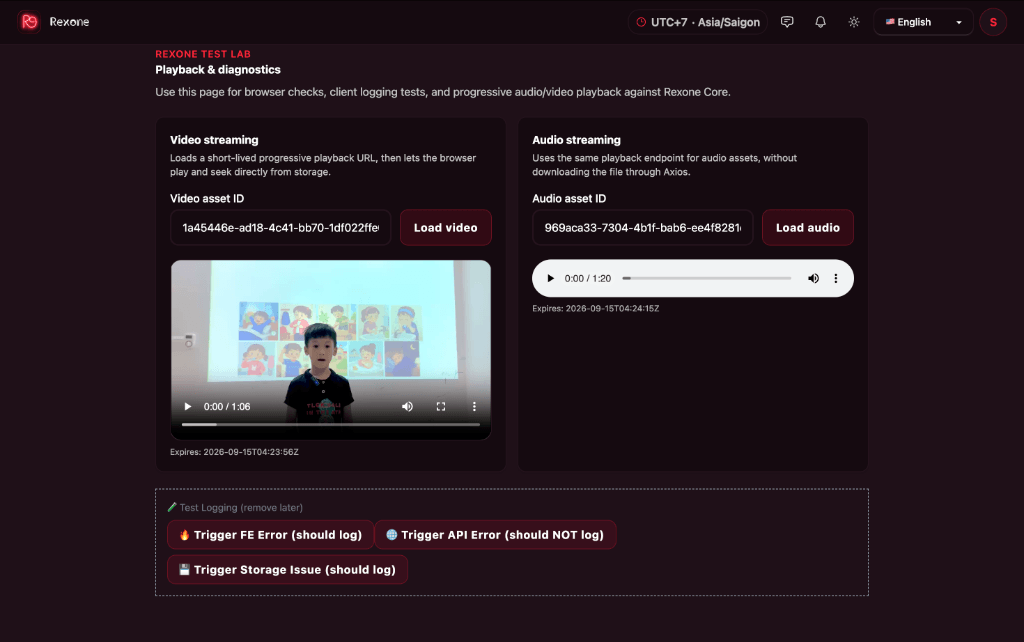
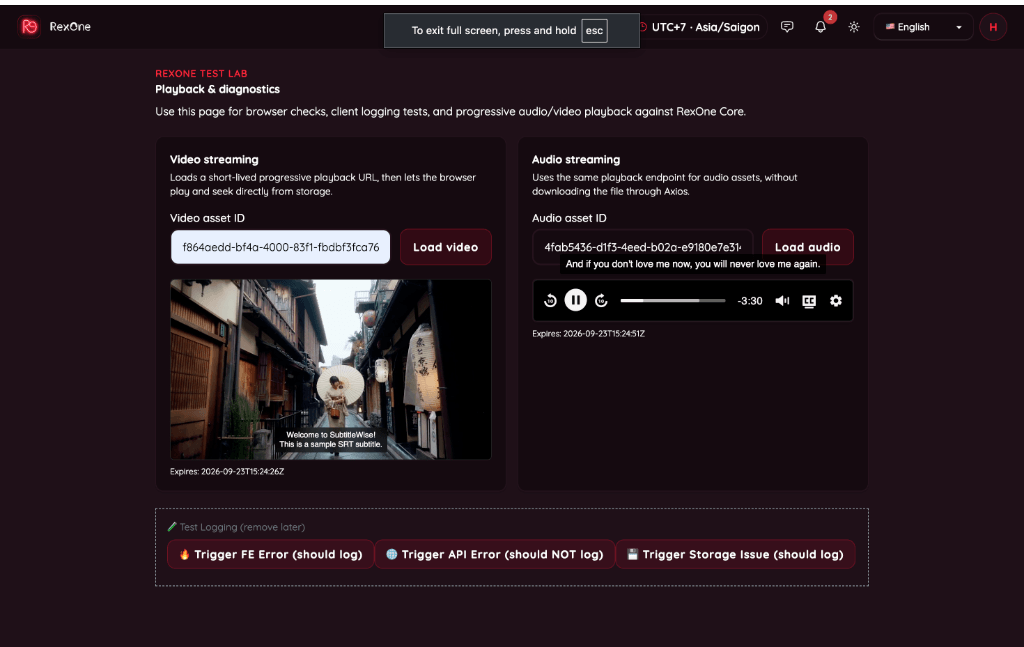
media visual walkthrough

Changed region(s): [[0.1562, 0.0623, 0.8438, 0.7477], [0.1562, 0.7788, 0.8438, 0.9346], [0.0, 0.0, 1.0, 0.0935]]

diff --git a/docs/VISUAL_WALKTHROUGH.md b/docs/VISUAL_WALKTHROUGH.md
@@ -599,24 +599,39 @@ flowchart LR
 
 Heavy image/video/audio processing runs in an isolated media worker so API requests and general transactional jobs are not forced to share the same compute path.
 
-## 9.4 Audio/video streaming — Test Lab diagnostics & Core media delivery
+## 9.4 Audio/video streaming — Test Lab diagnostics & cross-platform media delivery
 
 Until this branch, the visual story of media was strongest on the **ingest and processing** side: upload an asset, persist its metadata, optimize it in the isolated media worker, generate thumbnails/subtitles where relevant, and surface live processing state to administrators.
 
-The streaming work closes the other half of that lifecycle: **delivery**.
+The streaming work closes the other half of that lifecycle: **delivery** across Web and Mobile.
 
-<!-- SCREENSHOT:M03 — Test Lab with Core-backed stored audio/video playback and telemetry -->
+<!-- SCREENSHOT:M03-WEB — Test Lab with Core-backed stored audio/video playback, SRT subtitles, and telemetry -->
 <p align="center">
-  <img src="./images/walkthrough/media/m03-web.png" alt="M03 Web — Test Lab diagnostics and Core-backed stored audio/video playback" width="100%">
+  <img src="./images/walkthrough/media/m03-web.png" alt="M03 Web — Test Lab diagnostics and Core-backed stored audio/video playback with SRT subtitles" width="100%">
 </p>
 
 The **Test Lab** (`/test`) showcases:
 
-- **Progressive Video & Audio Streaming**: Native HTML5 media elements streaming MP4 video and MP3 audio directly through Core's streaming routes, supporting range headers, seekability, and buffer optimization.
-- **Diagnostics & Error Telemetry**: Interactive error generation buttons testing uncaught runtime errors, Promise rejections, and network failures, verifying that structured client logs are dispatched to Core and captured in the telemetry subsystem.
-
+- **Progressive Video & Audio Streaming with SRT Subtitles**: Vidstack media player streaming MP4 video and MP3 audio directly through Core's streaming routes, rendering synchronized WebVTT closed captions from fast-path in-memory SRT content with automated dialogue gap bridging ($\le 800\text{ms}$) to eliminate subtitle flicker.
+- **HLS Buffer Retention & Memory Caching**: 60-second back-buffer chunk retention and 60-second forward-buffer tuning allowing users to instantly rewind without repeating network segment requests.
+- **Diagnostics & Error Telemetry**: Interactive error generation buttons testing uncaught runtime errors, Promise rejections, and storage failures, verifying that structured client logs are dispatched to Core and captured in the telemetry subsystem.
 - **Range-Header Streaming Protocol**: Core media delivery exposes standard RFC 7233 HTTP 206 Partial Content range requests (`bytes=start-end`), enabling smooth audio/video scrubbing, pause/resume, and low-latency chunk buffering without requiring clients to download the entire media asset upfront.
 - **Provider Credential Shielding**: Media playback routes stream assets directly through Core's authenticated controller layer with short-lived tokens, shielding the underlying Garage S3-compatible storage endpoints, private bucket names, and internal VPS network topography.
+
+### Mobile Media Delivery & Subtitle Architecture
+
+Cross-platform parity extends to RexOne Mobile via dedicated video, subtitle, and synced lyric experiences backed by the same Core streaming and subtitle endpoints:
+
+<!-- SCREENSHOT:M03-MOBILE — Mobile Video Player, Subtitle Sheet, and Synced Lyrics -->
+<p align="center">
+  <img src="./images/walkthrough/media/m03-mobile-video.png" alt="M03 Mobile Video — Video Player with Closed Captions and In-Line Playlist" width="32%">
+  <img src="./images/walkthrough/media/m03-mobile-subtitles.png" alt="M03 Mobile Subtitles — Subtitle Track Switching" width="32%">
+  <img src="./images/walkthrough/media/m03-mobile-lyrics.png" alt="M03 Mobile Lyrics — Apple Music-Style Synced Lyrics" width="32%">
+</p>
+
+- **Video Player with In-Line Playlist (`m03-mobile-video.png`)**: Inline 16:9 video player with live closed captions positioned above controls, dynamic aspect ratio preservation, and in-line playlist rendering with download status badges.
+- **Dynamic Subtitle Track Switching (`m03-mobile-subtitles.png`)**: Real-time language track selector bottom sheet (`eng`, `mm`, or `None`) prefetching subtitle bodies into memory sources for 0ms switching latency without video interruption.
+- **Apple Music-Style Synced Lyrics (`m03-mobile-lyrics.png`)**: Full-screen kinetic audio lyrics viewer with active line auto-scrolling, brand red cue highlighting, multi-language switching, and interactive scrubbing.
 
 ## 9.5 Storage lifecycle
 
@@ -1260,7 +1275,10 @@ Working checklist and file index of all visual assets integrated across this wal
 | F02     | Feedback       | `docs/images/walkthrough/admin/ad09-web.png`                  | Feedback Triage & Telemetry                  | Captured |
 | M01     | Media          | `docs/images/walkthrough/media/m01-web.png`                   | Asset Control Center                         | Captured |
 | M02     | Media Storage  | `docs/images/walkthrough/media/m02-garage.png`                | Garage Storage & VPS Capacity                | Captured |
-| M03     | Media Delivery | `docs/images/walkthrough/media/m03-web.png`                   | Test Lab Video/Audio Streaming               | Captured |
+| M03     | Media Delivery | `docs/images/walkthrough/media/m03-web.png`                   | Test Lab Video/Audio Streaming (SRT)         | Captured |
+| M03_MV  | Media Delivery | `docs/images/walkthrough/media/m03-mobile-video.png`          | Mobile Video Player with Closed Captions     | Captured |
+| M03_MS  | Media Delivery | `docs/images/walkthrough/media/m03-mobile-subtitles.png`      | Mobile Subtitle Track Switching Sheet        | Captured |
+| M03_ML  | Media Delivery | `docs/images/walkthrough/media/m03-mobile-lyrics.png`         | Apple Music-Style Synced Lyrics (Mobile)     | Captured |
 | V01_M   | Versioning     | `docs/images/walkthrough/versions/v01-mobile.png`             | Optional App Update Dialog (Mobile)          | Captured |
 | V02_M   | Versioning     | `docs/images/walkthrough/versions/v02-mobile.png`             | Forced App Update Dialog (Mobile)            | Captured |
 | T01     | Telemetry      | `docs/images/walkthrough/telemetry/t01-telemetry.png`         | Analytics & Event Telemetry Engine           | Captured |
